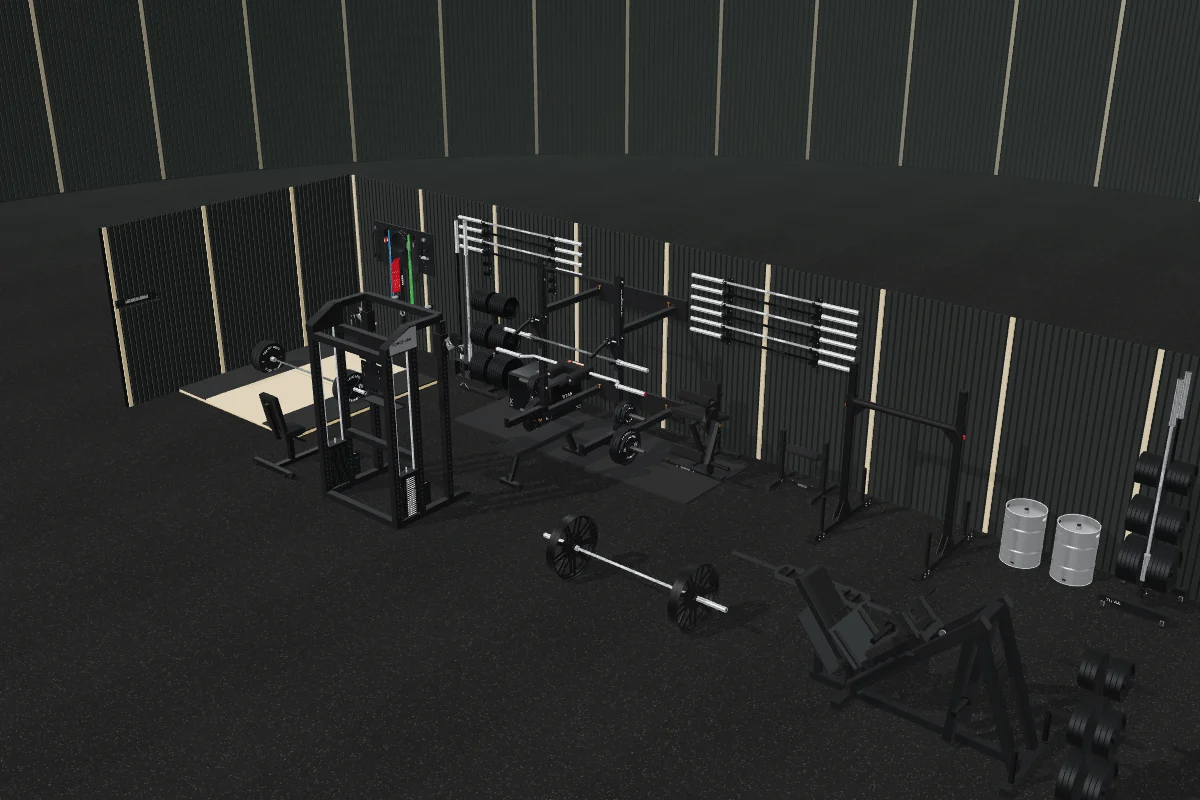
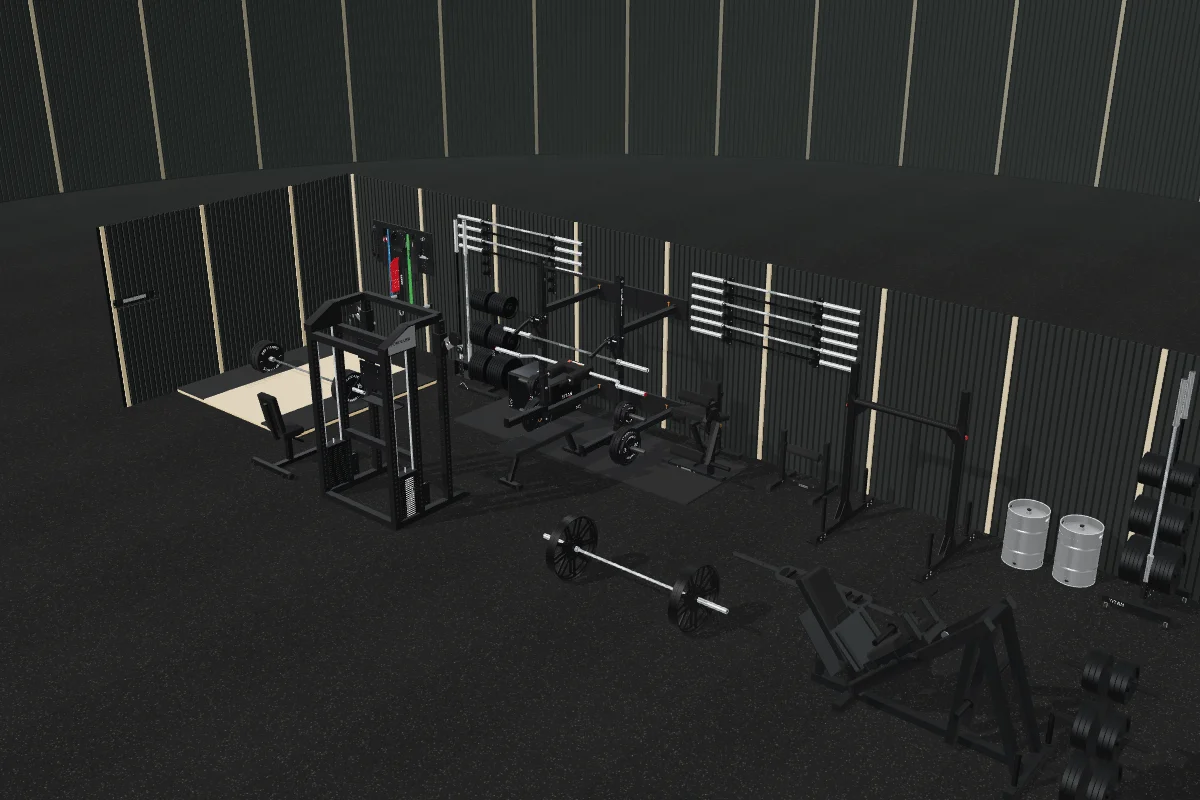
Preview script: zoom with synthetic wheel events; re-render previews
A real wheel over a hovered floor item rotates it instead of zooming, so
the script dispatches wheel events without moving the pointer onto the
canvas. Previews and screenshots re-rendered on the rebased builder.

Claude-Session: https://claude.ai/code/session_012UbFo1vdfp4VJ6W2xVLnn3

diff --git a/scripts/render-gym-previews.ts b/scripts/render-gym-previews.ts
@@ -23,10 +23,10 @@ const flag = (name: string, fallback: string) => {
 const port = Number(flag('port', '5661')), view = flag('view', 'iso'), external = flag('base', ''), defaultZoom = Number(flag('zoom', '1.5'));
 /** Per-gym dolly factors, tuned by eye so each gym fills its card. */
 const ZOOMS: Record<string, number> = {
-  'b3-brian-s-barbells-and-brewskis': 1.7,
+  'b3-brian-s-barbells-and-brewskis': 1.6,
   'cable-compound': 1.6,
-  'erik-mains-s-gym': 1.9,
-  'fe-strength-lab': 1.8,
+  'erik-mains-s-gym': 1.5,
+  'fe-strength-lab': 1.6,
 };
 const base = external || `http://127.0.0.1:${port}`;
 const WIDTH = 1200, HEIGHT = 800, MAX_BYTES = 150 * 1024;
@@ -113,8 +113,11 @@ try {
       await page.waitForTimeout(1200);
       // OrbitControls dollies by 0.95 per 100 px wheel notch, toward the fitted target at the frame centre.
       const zoom = zoomOf(slug), notches = Math.round(Math.log(1 / zoom) / Math.log(0.95));
-      await page.mouse.move(WIDTH / 2, HEIGHT / 2);
-      for (let i = 0; i < notches; i++) { await page.mouse.wheel(0, -100); await page.waitForTimeout(60); }
+      // Synthetic events, with the pointer never over the canvas: a real wheel over a hovered floor item rotates it.
+      for (let i = 0; i < notches; i++) {
+        await page.locator('#viewport canvas').first().evaluate((canvas, [x, y]) => canvas.dispatchEvent(new WheelEvent('wheel', { deltaY: -100, clientX: x, clientY: y, bubbles: true, cancelable: true })), [WIDTH / 2, HEIGHT / 2]);
+        await page.waitForTimeout(60);
+      }
       await page.waitForTimeout(1500);
       const png = await page.locator('#viewport').screenshot({ type: 'png' });
       const { bytes, quality } = await toWebp(page, png);
